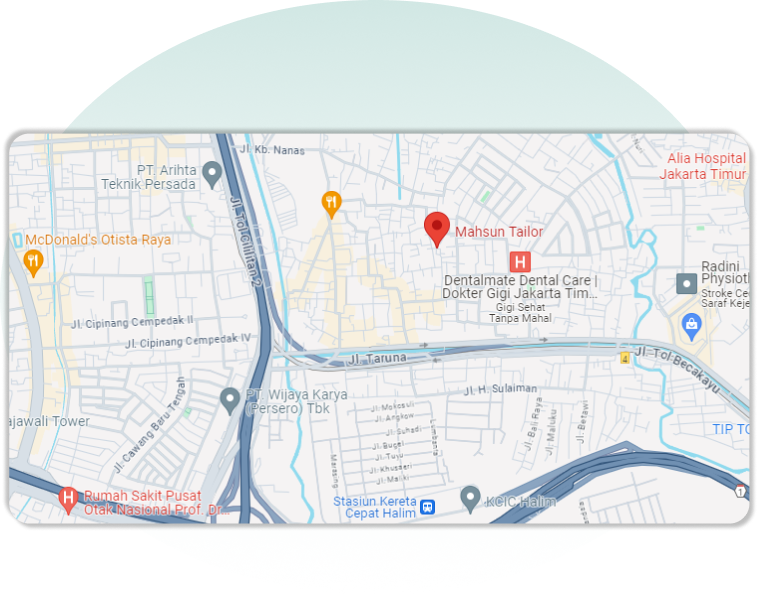
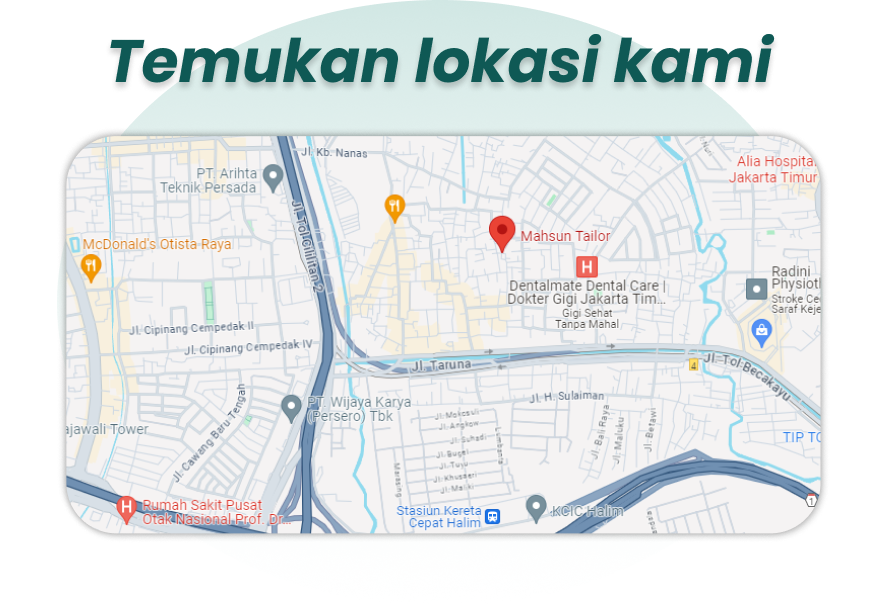
feat: make home and product page responsive design

Changed region(s): [[0.0, 0.0303, 1.0, 0.9076], [0.3338, 0.0, 0.4248, 0.0303], [0.6069, 0.0, 0.6675, 0.0303]]

diff --git a/src/components/Layouts/HomeLayout.js b/src/components/Layouts/HomeLayout.js
@@ -4,17 +4,17 @@ import { Link } from "react-router-dom";
 
 function HomeLayout() {
   return (
-    <main className="flex flex-col flex-1 px-[18px] pt-10 pb-12 min-h-screen">
+    <main className="flex flex-col flex-1 px-[18px] pt-10 pb-12 min-h-screen max-w-4xl items-center">
       <IntroTitle>
         Jasa Pembuatan Busana Terpercaya dan Berkualitas Sejak Tahun 2000
       </IntroTitle>
-      <TeaserHomePage
-        subtitle={"Temukan model busanamu"}
-        buttonName={"Lihat Selengkapnya"}
-        route={"/products"}
-      >
+      <TeaserHomePage buttonName={"Lihat Selengkapnya"} route={"/products"}>
         <Link to="/products">
-          <img className="w-[240px]" src="/assets/img/busana.png" alt="" />
+          <img
+            className="w-[240px] sm:w-[300px] md:w-[400px] lg:w-[500px]"
+            src="/assets/img/busana.png"
+            alt=""
+          />
         </Link>
         <p className="text-center font-normal text-[15px] mt-3">
           Menawarkan jasa pembuatan busana dengan berbagai model sesuai yang
@@ -31,13 +31,13 @@ function HomeLayout() {
         </p>
       </TeaserHomePage>
 
-      <TeaserHomePage
-        subtitle={"Temukan lokasi kami"}
-        buttonName={"Booking Sekarang"}
-        route={"/login"}
-      >
+      <TeaserHomePage buttonName={"Booking Sekarang"} route={"/login"}>
         <Link to={"https://maps.app.goo.gl/xxNcumaM3xB1fGFeA"} target="_blank">
-          <img className="w-[240px]" src="/assets/img/Lokasi.png" alt="" />
+          <img
+            className="w-[240px] sm:w-[300px] md:w-[400px] lg:w-[500px]"
+            src="/assets/img/Lokasi.png"
+            alt=""
+          />
         </Link>
         <p className="text-center font-normal text-[15px] mt-3">
           Datang ke tempat? Panggil penjahit?

diff --git a/src/components/Fragments/ProductCard.js b/src/components/Fragments/ProductCard.js
@@ -5,9 +5,9 @@ function ProductCard(props) {
       <img
         src={`${img}`}
         alt="jas-pria"
-        className={`w-full h-[187px] rounded-lg object-cover ${cut}`}
+        className={`w-full h-[187px] rounded-lg object-cover ${cut} sm:h-52 md:h-64 lg:h-72`}
       />
-      <div className="flex justify-between text-primary text-[15px] px-3 font-medium">
+      <div className="flex justify-between text-primary text-[15px] px-3 font-medium sm:text-base">
         <p>{productType}</p>
         <p className="italic">{price}</p>
       </div>

diff --git a/src/components/Fragments/TeaserHomePage.js b/src/components/Fragments/TeaserHomePage.js
@@ -1,12 +1,9 @@
-import SubTitle from "../Elements/Title/SubTitle";
 import BlueButton from "../Elements/Buttons/BlueButton";
 
 function TeaserHomePage(props) {
-  const { subtitle, buttonName, route, children } = props;
+  const { buttonName, route, children } = props;
   return (
-    <div className="flex flex-col items-center mt-12 mx-8">
-      <SubTitle classname={"absolute"}>{subtitle}</SubTitle>
-
+    <div className="flex flex-col items-center mt-12 mx-8 md:mt-16 lg:mt-20">
       {children}
 
       <div className="text-[13px]">

diff --git a/src/components/Elements/Title/SubTitle.js b/src/components/Elements/Title/SubTitle.js
@@ -2,7 +2,7 @@ function SubTitle(props) {
   const { classname, children } = props;
   return (
     <h1
-      className={`text-primary text-lg font-bold italic text-center flex items-center justify-center ${classname}`}
+      className={`text-primary text-lg font-bold italic text-center flex items-center justify-center ${classname} sm:text-xl md:text-2xl lg:text-3xl`}
     >
       {children}
     </h1>

diff --git a/src/components/Layouts/ProductPageLayout.js b/src/components/Layouts/ProductPageLayout.js
@@ -3,7 +3,7 @@ import PageTitle from "../Elements/Title/PageTitle";
 
 function ProductPageLayout() {
   return (
-    <main className="flex flex-col flex-1 px-7 pt-28 pb-12 min-h-screen items-center">
+    <main className="flex flex-col px-7 pt-28 pb-12 min-h-screen max-w-5xl items-center w-full">
       <PageTitle title={"Produk"} />
       <ProductCard
         productType={"Jas Pria"}

diff --git a/src/components/Elements/Title/IntroTitle.js b/src/components/Elements/Title/IntroTitle.js
@@ -1,7 +1,7 @@
 function IntroTitle(props) {
   const { children } = props;
   return (
-    <h1 className="text-primary text-2xl font-bold italic text-center mt-20">
+    <h1 className="text-primary text-2xl font-bold italic text-center mt-20 md:text-3xl lg:text-5xl lg:mt-24">
       {children}
     </h1>
   );

diff --git a/src/components/Layouts/MainPageLayout.js b/src/components/Layouts/MainPageLayout.js
@@ -3,7 +3,7 @@ import NavBar from "../Fragments/NavBar";
 
 function MainPageLayout({ children }) {
   return (
-    <div className="flex flex-col">
+    <div className="flex flex-col items-center">
       <NavBar />
 
       {children}
